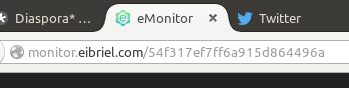
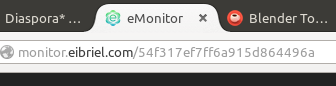
Added Render Stats
Added Help pic with blender.today

diff --git a/emonitor/emonitor/templates/index.html b/emonitor/emonitor/templates/index.html
@@ -125,6 +125,7 @@
         <div id="welcome-text">
             <div class="page-header"><h1>Monitor your render</h1></div>
         <p class="lead"><a href="/static/eibriel_monitor.zip">Download</a> the addon and follow the<br />render progress of your work anywhere.</p>
+        <p><span class="label label-danger">Total:{{stats['total']}}</span> <span class="label label-primary">Rendering:{{stats['rendering']}}</span> <span class="label label-success">Complete: {{stats['complete']}}</span></p>
             <div class="row">
                 <div class="col-md-3"></div>
                 <div class="col-md-6">

diff --git a/emonitor/emonitor/modules/main/__init__.py b/emonitor/emonitor/modules/main/__init__.py
@@ -28,6 +28,17 @@ def getJobData(job_id):
         return False
     return data_job
 
+def getStats():
+    renderJobs = MongoConnection.connect()
+    stats={}
+    stats['total'] = renderJobs.count()
+    stats['complete'] = renderJobs.find(
+        {'status':{'$in':['RENDER_COMPLETE','JOB_CANCELLED']}}).count()
+    stats['rendering'] = renderJobs.find(
+        {'status':{'$in':['JOB_START', 'RENDER_START', 'RENDER_END']}}).count()
+
+    return stats
+
 
 @main.route('/')
 @main.route('/<job_id>')
@@ -35,7 +46,8 @@ def index(job_id=None):
     data_job = getJobData(job_id)
     if not data_job:
         job_id = ''
-    return render_template('index.html', job_id=job_id)
+    stats = getStats()
+    return render_template('index.html', job_id=job_id, stats=stats)
 
 
 @main.route('/movie/')
